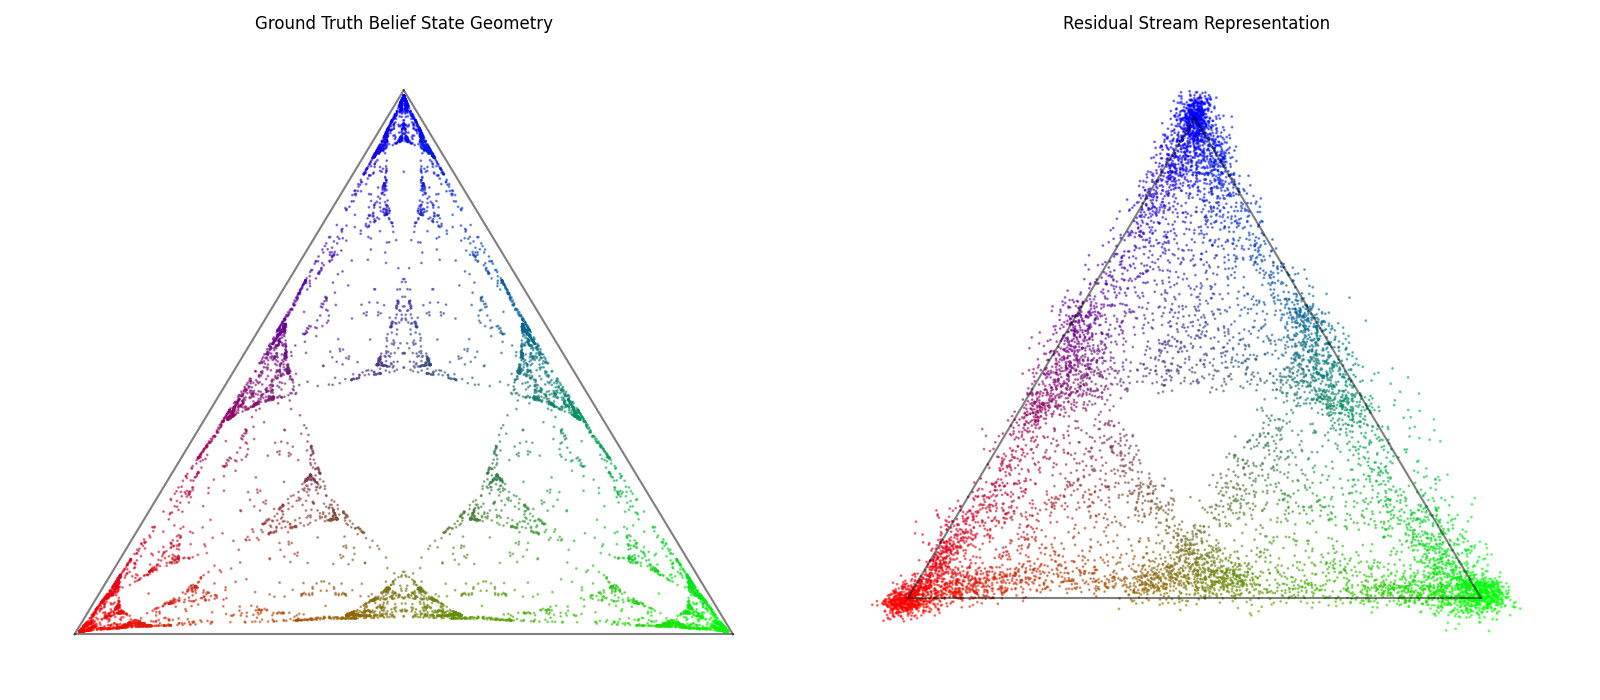
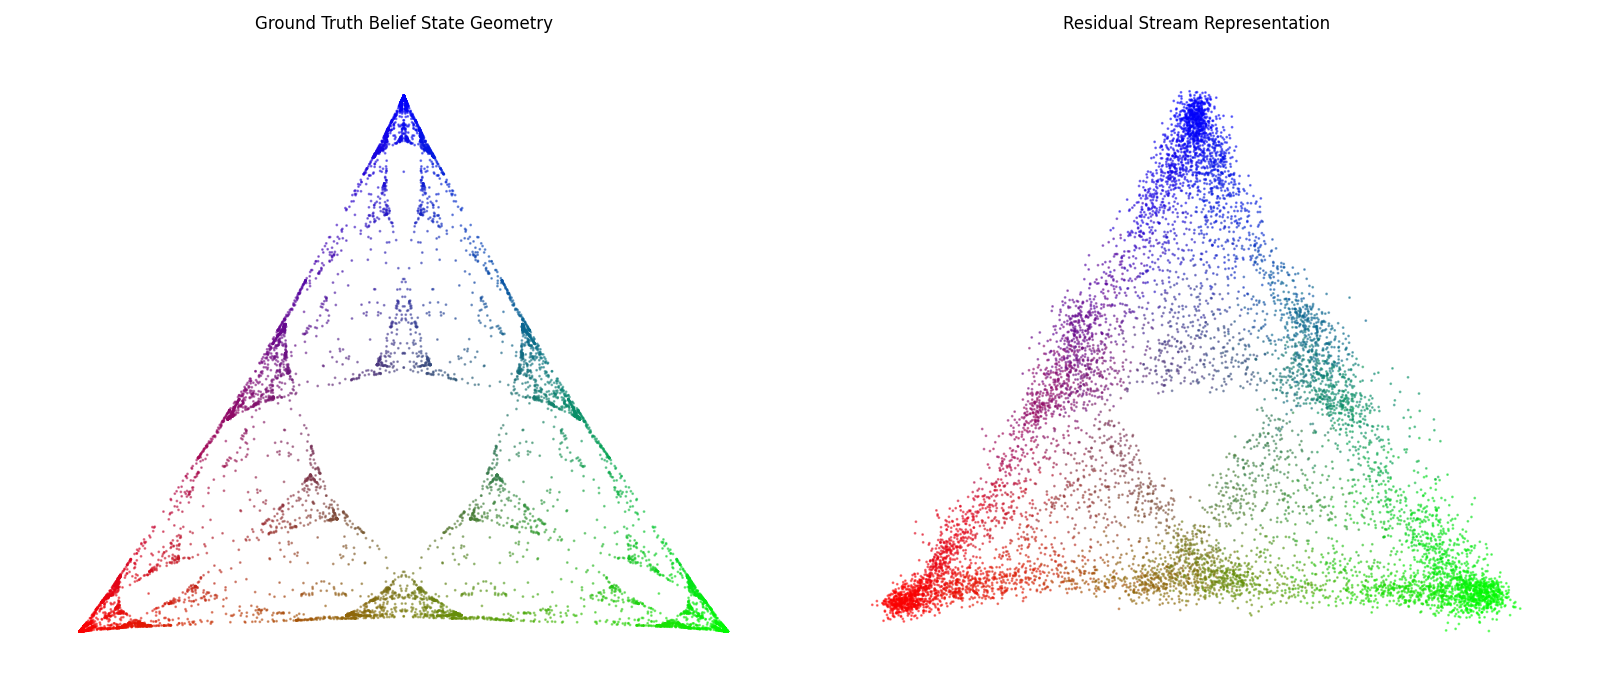
color based on ground truth

Changed region(s): [[0.5625, 0.84, 0.5938, 0.87]]

diff --git a/visualize_simplex_2.py b/visualize_simplex_2.py
@@ -521,12 +521,15 @@ for seq in tqdm(all_sequences, desc="Calculating belief states"):
     belief_states.append(belief)
 
 # Plot the ground truth belief state geometry
-def plot_simplex(belief_states, ax=None, s=2, title=None, colorbar=False, alpha=0.5):
+def plot_simplex(belief_states, ax=None, s=2, title=None, c=None,colorbar=False, alpha=0.5):
     """
     Plot belief states in a 2-simplex (triangle), including points outside the simplex.
     """
     if ax is None:
         fig, ax = plt.subplots(figsize=(8, 7))
+
+    if c is None:
+        c = belief_states
     
     # Convert list of belief states to a numpy array if it's not already
     if isinstance(belief_states[0], torch.Tensor):
@@ -538,16 +541,16 @@ def plot_simplex(belief_states, ax=None, s=2, title=None, colorbar=False, alpha=
     corners = np.array([[0, 0], [1, 0], [0.5, np.sqrt(3)/2]])
     
     # Draw the outline of the simplex
-    for i in range(3):
-        ax.plot([corners[i][0], corners[(i+1)%3][0]], 
-                [corners[i][1], corners[(i+1)%3][1]], 'k-', alpha=0.5)
+    # for i in range(3):
+    #     ax.plot([corners[i][0], corners[(i+1)%3][0]], 
+    #             [corners[i][1], corners[(i+1)%3][1]], 'k-', alpha=0.5)
     
     # Vectorized conversion from barycentric to Cartesian coordinates
     x = belief_states[:, 0] * corners[0, 0] + belief_states[:, 1] * corners[1, 0] + belief_states[:, 2] * corners[2, 0]
     y = belief_states[:, 0] * corners[0, 1] + belief_states[:, 1] * corners[1, 1] + belief_states[:, 2] * corners[2, 1]
     
     # Plot all points at once
-    scatter = ax.scatter(x, y, c=belief_states.clip(0, 1), s=s, alpha=alpha)
+    scatter = ax.scatter(x, y, c=c.clip(0, 1), s=s, alpha=alpha)
     
     # Set expanded plot limits to show points outside the simplex
     # Calculate the range of the points to determine appropriate limits
@@ -679,6 +682,7 @@ plot_simplex(
     projected_activations,
     ax=ax2,
     s=1,
+    c=Y,
     title="Residual Stream Representation",
     alpha=0.5
 )
